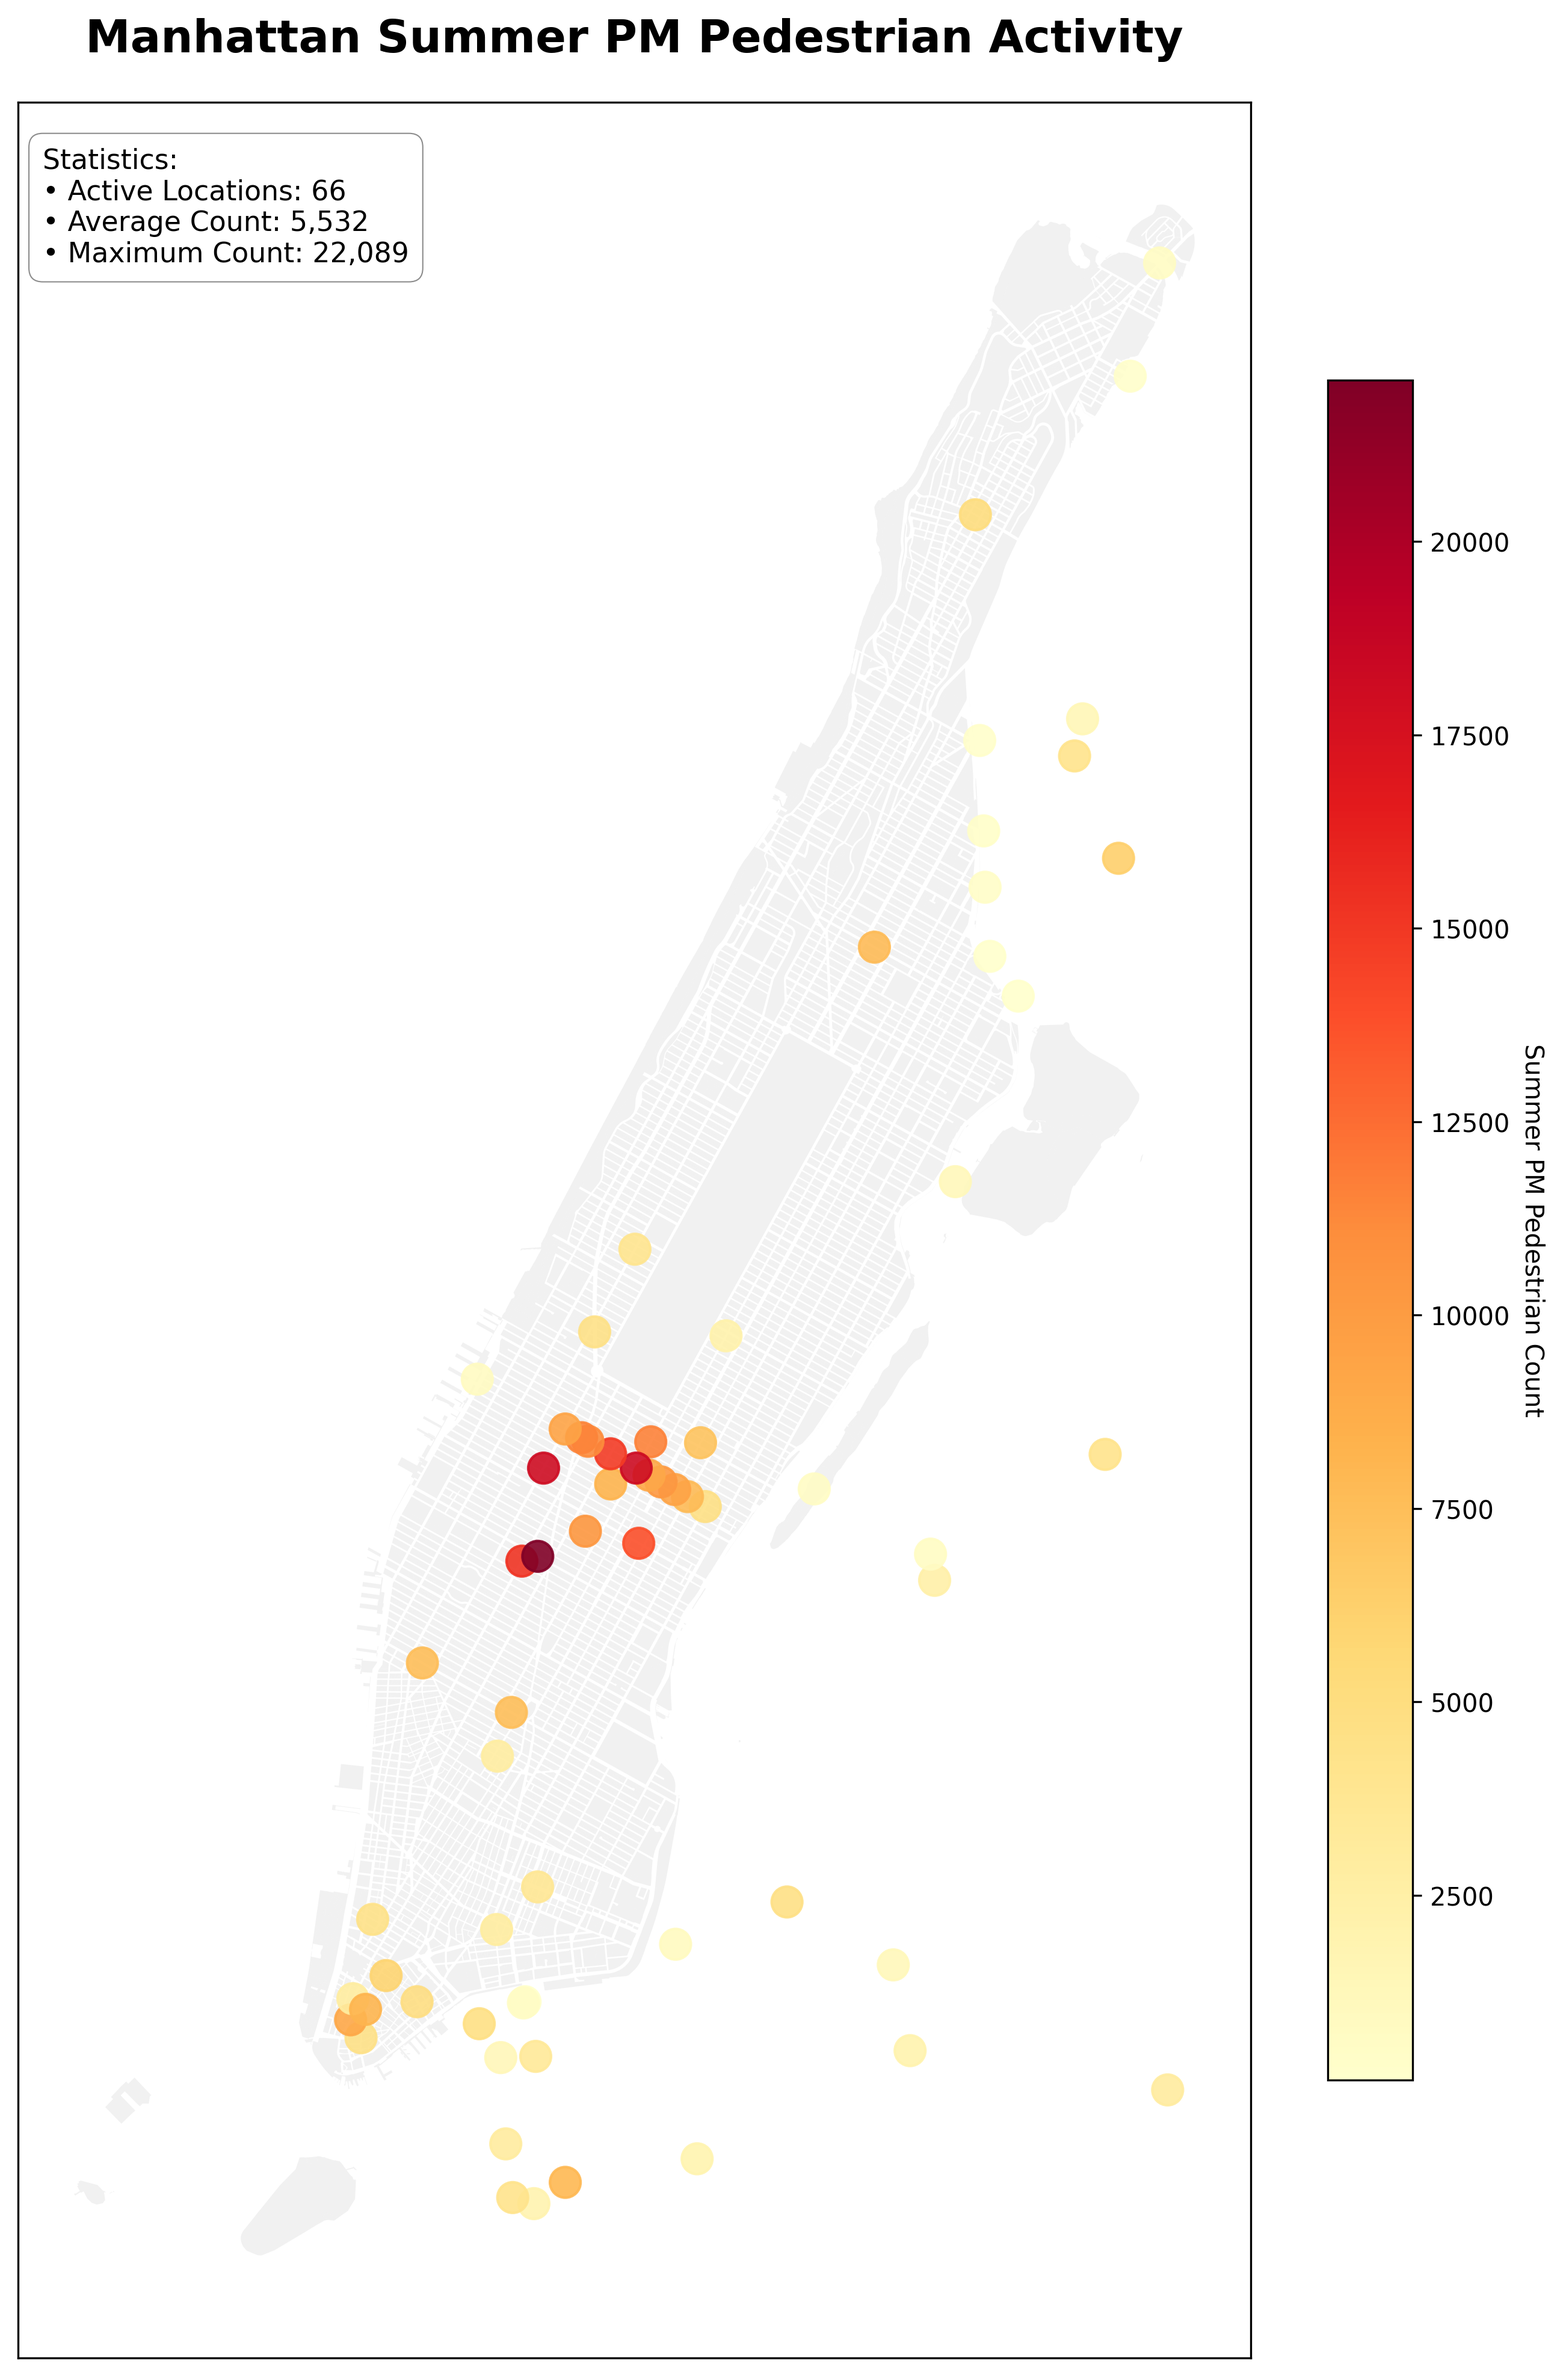
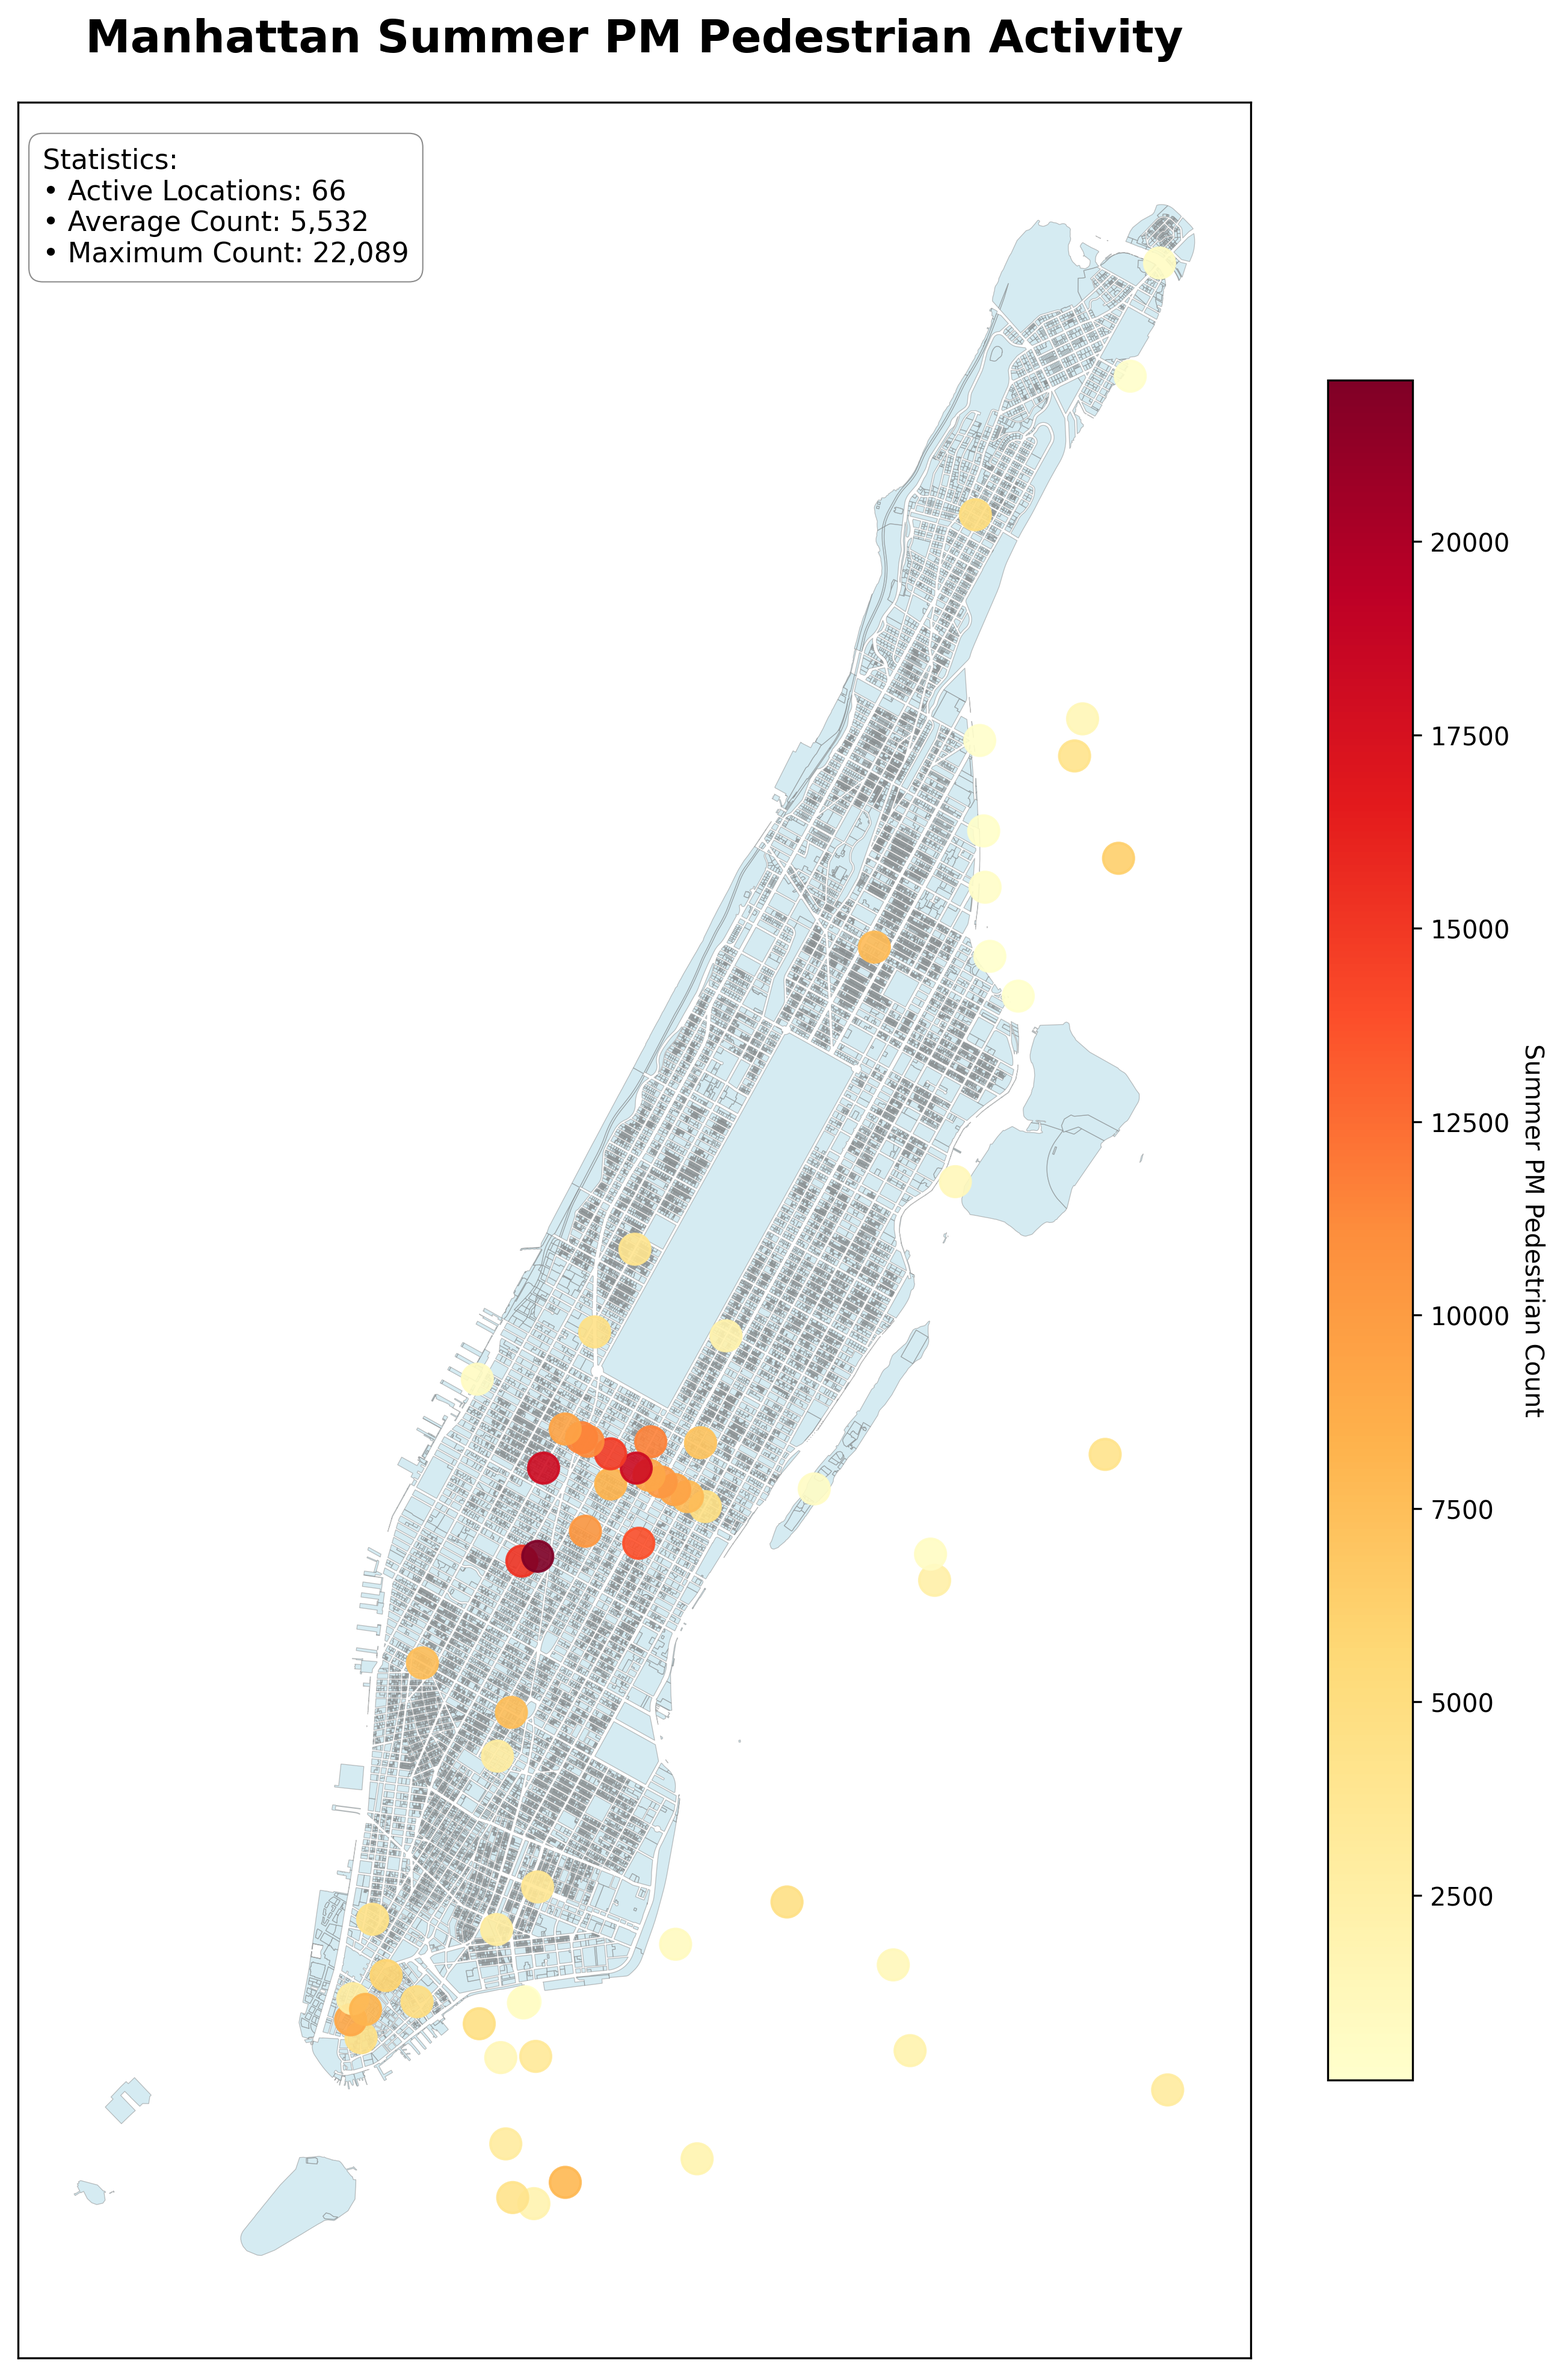
update

Changed region(s): [[0.1871, 0.0934, 0.7794, 0.8719], [0.1559, 0.903, 0.2494, 0.9653], [0.0624, 0.8719, 0.0935, 0.903]]

diff --git a/manhattan_summer_pm_heatmap.py b/manhattan_summer_pm_heatmap.py
@@ -137,10 +137,10 @@ def plot_manhattan_base(ax, manhattan_pluto_wgs84):
     """Plot Manhattan base map."""
     manhattan_pluto_wgs84.plot(
         ax=ax,
-        color="lightgray",
-        alpha=0.3,
-        edgecolor="none",  # Remove border
-        linewidth=0,
+        color="lightblue",  # More visible color
+        alpha=0.5,  # More visible
+        edgecolor="gray",  # Add subtle boundaries
+        linewidth=0.3,  # Thin boundaries
     )
 
 
@@ -315,50 +315,5 @@ def create_manhattan_summer_pm_heatmap(ped_df=None, save_figure=True):
     return fig, ax, manhattan_ped, active_locations
 
 
-# For notebook usage, you can also call individual functions:
-def load_and_process_data():
-    """Load and process data for notebook analysis."""
-    ped_df = pd.read_csv("Data/Bi-Annual_Pedestrian_Counts_20250709.csv")
-    ped_df = extract_coordinates(ped_df)
-    ped_gdf = create_pedestrian_gdf(ped_df)
-    manhattan_pluto_wgs84, manhattan_bounds = load_manhattan_bounds()
-    manhattan_ped = filter_manhattan_data(ped_gdf, manhattan_bounds)
-    return manhattan_ped, manhattan_pluto_wgs84
-
-
-def main(manhattan_ped=None, manhattan_pluto_wgs84=None, save_figure=True):
-    """Create just the heatmap visualization from processed data."""
-    print("🔥 Creating Manhattan Summer PM Pedestrian Activity Heatmap...")
-
-    if manhattan_ped is None or manhattan_pluto_wgs84 is None:
-        # Load data if not provided
-        manhattan_ped, manhattan_pluto_wgs84 = load_and_process_data()
-        print(f"   Manhattan pedestrian locations: {len(manhattan_ped)}")
-
-    summer_pm_columns = find_summer_pm_columns(manhattan_ped)
-    print(f"   Found {len(summer_pm_columns)} summer PM columns: {summer_pm_columns}")
-
-    manhattan_ped = calculate_summer_pm_counts(manhattan_ped, summer_pm_columns)
-
-    fig, ax = setup_plot()
-    plot_manhattan_base(ax, manhattan_pluto_wgs84)
-
-    active_locations = manhattan_ped[manhattan_ped["summer_pm_count"] > 0].copy()
-    plot_heatmap(ax, active_locations, fig)
-
-    if save_figure:
-        save_plot(fig)
-        print("   ✅ Manhattan Summer PM Pedestrian Activity Heatmap saved!")
-
-    print_summary(active_locations)
-    return fig, ax, active_locations
-
-
-def create_heatmap_notebook():
-    """Simple function for notebook usage - loads data and creates heatmap."""
-    manhattan_ped, manhattan_pluto_wgs84 = load_and_process_data()
-    return main(manhattan_ped, manhattan_pluto_wgs84)
-
-
 if __name__ == "__main__":
-    main()
+    create_manhattan_summer_pm_heatmap()
